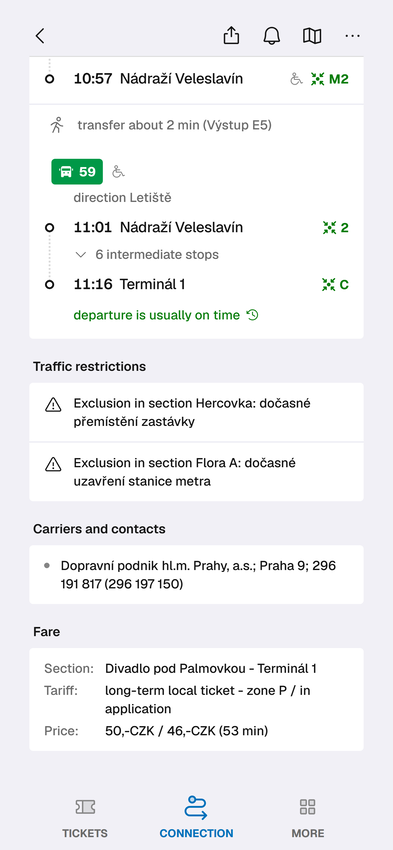
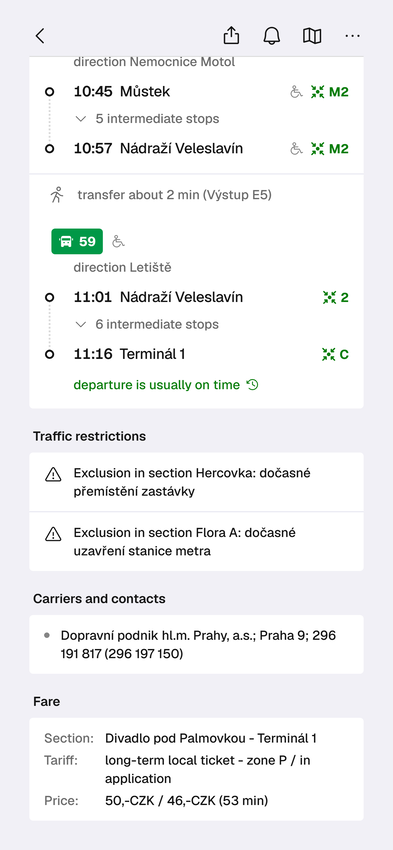
Second-order pages (results, trip) have no tab bar
Claude-Session: https://claude.ai/code/session_01Y8Ue6eNGBhuYbYVaJqVueS

diff --git a/index.html b/index.html
@@ -324,7 +324,9 @@ p { margin: 0; }
 .cta:active { background: var(--action-primary-pressed); }
 
 /* ── tab bar ──────────────────────────────────────── */
-.tabbar { flex: none; display: flex; height: 56px; margin: var(--gap-section) var(--margin-content) 0; }
+.tabbar { flex: none; display: flex; height: 56px; margin: var(--gap-section) var(--margin-content) 0; overflow: hidden; transition: height 0.4s cubic-bezier(0.3, 0.6, 0.35, 1), margin-top 0.4s cubic-bezier(0.3, 0.6, 0.35, 1), opacity 0.25s ease; }
+/* second-order pages (search results, one trip) have no tab bar: it folds away as the page slides in, and the page takes its room */
+.device.is-deep .tabbar { height: 0; margin-top: 0; opacity: 0; }
 /* Tab item, State = Default | Active (Figma set 61:1161) */
 .tab { flex: 1; display: flex; flex-direction: column; align-items: center; gap: var(--space-4); padding-top: var(--space-2); }
 .tab .frame { position: relative; width: 32px; height: 32px; }
@@ -509,7 +511,7 @@ p { margin: 0; }
 /* Reduced motion is honoured, except when the page is opened with ?motion=on (screen recordings on a machine
    that has system animations switched off). */
 @media (prefers-reduced-motion: reduce) {
-  :root:not(.motion-on) :is(.swap .ico, .pressable, .tab .frame .ico, .tab .t-nav, .chip, .track, .indicator, .segment, .row, .trip, .scrim, .sheet, .toast, .via, .via-toggle .ico, .icon-btn, .result, .later, .switch, .switch::after, .cmp-grip, .cmp-line, .cmp-tag) { transition: none; }
+  :root:not(.motion-on) :is(.swap .ico, .pressable, .tab .frame .ico, .tab .t-nav, .chip, .track, .indicator, .segment, .row, .trip, .scrim, .sheet, .toast, .via, .via-toggle .ico, .icon-btn, .result, .later, .switch, .switch::after, .cmp-grip, .cmp-line, .cmp-tag, .tabbar) { transition: none; }
   :root:not(.motion-on) .when.is-now { animation: none; }
 }
 </style>
@@ -668,7 +670,7 @@ p { margin: 0; }
       </div>
     </div>
   </div>
-  <!-- Build 3b8dafc -->
+  <!-- Build 03bb4ac -->
 </div>
 
 <script>
@@ -1212,6 +1214,12 @@ window.IDOS_TRIPS = (function () {
     if (!data) { toast("Trip details are not part of this concept yet"); return; }
     openTrip({ routeId: routeId, t: t, data: data, day: data.day == null ? 621 : data.day, key: routeId + ":" + idx + ":" + t, title: r.from + " to " + r.to }, from);
   }
+  var deviceEl = document.querySelector(".device"), tabbarEl = document.querySelector(".tabbar");
+  function syncDeep() {
+    var deep = !!(current || res);
+    deviceEl.classList.toggle("is-deep", deep);
+    tabbarEl.inert = deep;
+  }
   function openTrip(c, from) {
     current = c;
     origin = from;
@@ -1222,6 +1230,7 @@ window.IDOS_TRIPS = (function () {
     connectionEls.forEach(function (el) { el.inert = true; });
     resultsEl.inert = true;
     tripEl.classList.add("is-open");
+    syncDeep();
     document.getElementById("tripBack").focus({ preventScroll: true });
   }
   function closeTrip() {
@@ -1231,6 +1240,7 @@ window.IDOS_TRIPS = (function () {
     if (res) resultsEl.inert = false; else connectionEls.forEach(function (el) { el.inert = false; });
     var back = origin;
     current = null; origin = null;
+    syncDeep();
     if (back && back.isConnected && !back.classList.contains("is-leaving")) back.focus({ preventScroll: true });
     else if (res) document.getElementById("resBack").focus({ preventScroll: true });
   }
@@ -1434,6 +1444,7 @@ window.IDOS_TRIPS = (function () {
     connectionEls.forEach(function (el) { el.inert = true; });
     resultsEl.inert = false;
     resultsEl.classList.add("is-open");
+    syncDeep();
     document.getElementById("resBack").focus({ preventScroll: true });
   }
   function closeResults() {
@@ -1444,6 +1455,7 @@ window.IDOS_TRIPS = (function () {
     connectionEls.forEach(function (el) { el.inert = false; });
     var back = res.origin;
     res = null;
+    syncDeep();
     if (back && back.isConnected) back.focus({ preventScroll: true });
   }
 

diff --git a/sw.js b/sw.js
@@ -1,4 +1,4 @@
-const CACHE = "idos-3b8dafc";
+const CACHE = "idos-03bb4ac";
 const SHELL = ["./", "index.html", "manifest.webmanifest", "icons/icon-180.png", "icons/icon-192.png", "icons/icon-512.png"];
 
 self.addEventListener("install", e => {
